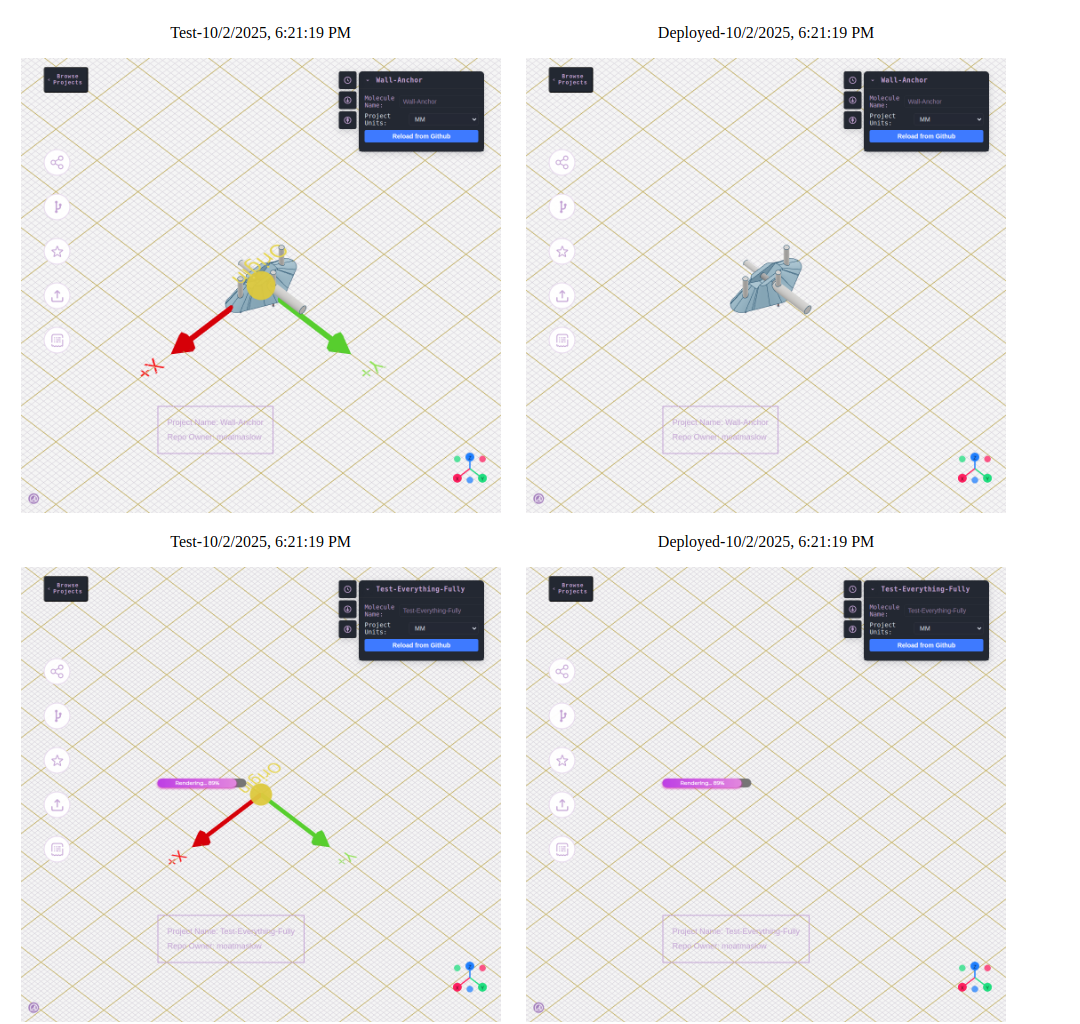
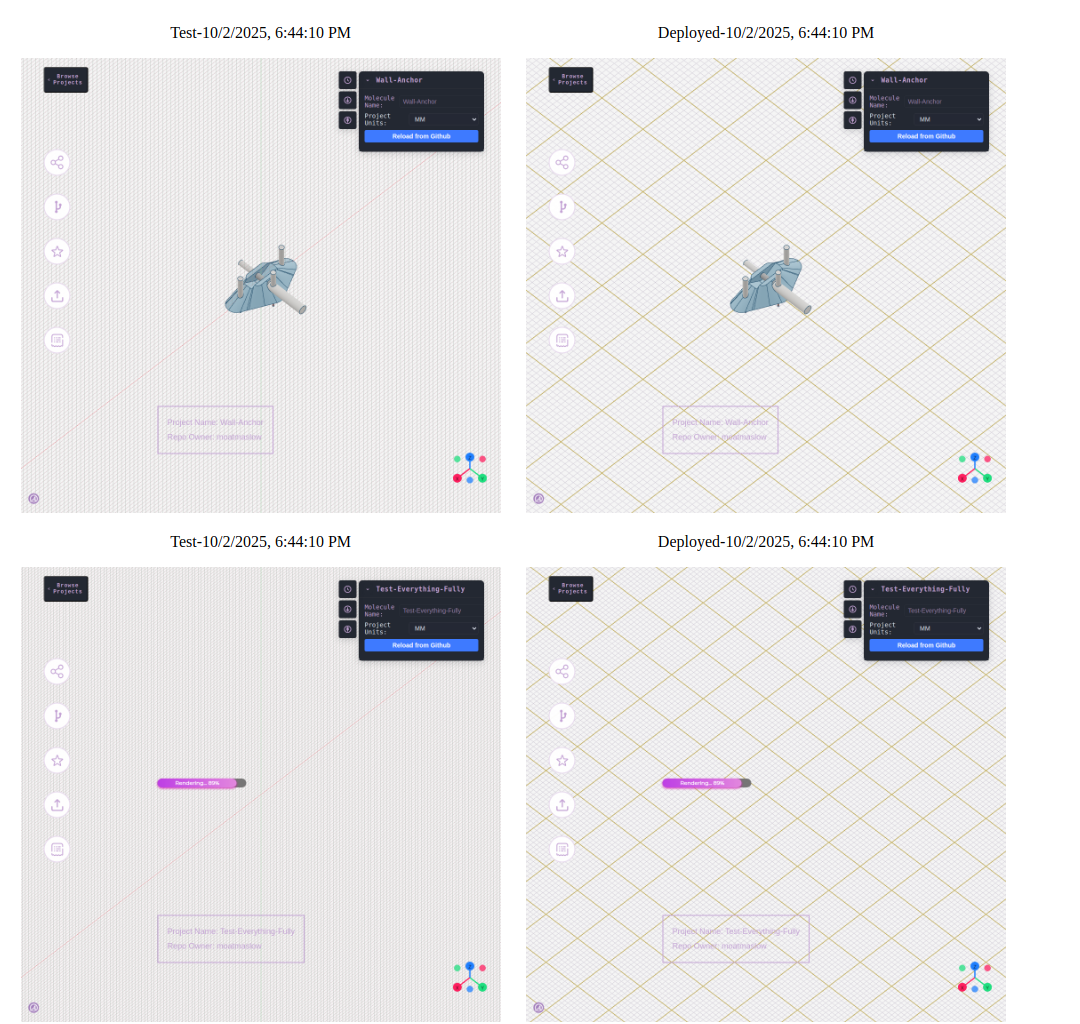
Replace 3D markers with color-coded grid lines

diff --git a/src/components/render/ColoredGrid.jsx b/src/components/render/ColoredGrid.jsx
@@ -1,0 +1,118 @@
+import React, { useMemo } from "react";
+import * as THREE from "three";
+
+/**
+ * ColoredGrid component
+ * A custom grid that uses different colors to indicate axis directions:
+ * - Lines parallel to X-axis are tinted red
+ * - Lines parallel to Y-axis are tinted green
+ * - The origin intersection is highlighted
+ * 
+ * This provides subtle visual cues about orientation without adding 3D elements.
+ */
+const ColoredGrid = ({ 
+  position = [0, 0, 0], 
+  cellSize = 100, 
+  gridSize = 10000, 
+  rotation = [0, 0, 0],
+  cellColor = "#726482",
+  sectionColor = "#BFA301",
+  sectionSize = 1000,
+  fadeDistance = 9000,
+  fadeFrom = 0
+}) => {
+  const gridGeometry = useMemo(() => {
+    const halfSize = gridSize / 2;
+    const divisions = gridSize / cellSize;
+    
+    // Create arrays to hold line vertices
+    const xAxisLines = []; // Lines parallel to X (running left-right)
+    const yAxisLines = []; // Lines parallel to Y (running front-back)
+    const originXLine = []; // X-axis line through origin
+    const originYLine = []; // Y-axis line through origin
+    
+    // Generate grid lines
+    for (let i = -divisions / 2; i <= divisions / 2; i++) {
+      const pos = i * cellSize;
+      const isSection = Math.abs(i % (sectionSize / cellSize)) === 0;
+      const isOrigin = i === 0;
+      
+      // Lines parallel to X-axis (running left-right, varying in Y)
+      if (isOrigin) {
+        originXLine.push(
+          new THREE.Vector3(-halfSize, pos, 0),
+          new THREE.Vector3(halfSize, pos, 0)
+        );
+      } else {
+        xAxisLines.push(
+          new THREE.Vector3(-halfSize, pos, 0),
+          new THREE.Vector3(halfSize, pos, 0)
+        );
+      }
+      
+      // Lines parallel to Y-axis (running front-back, varying in X)
+      if (isOrigin) {
+        originYLine.push(
+          new THREE.Vector3(pos, -halfSize, 0),
+          new THREE.Vector3(pos, halfSize, 0)
+        );
+      } else {
+        yAxisLines.push(
+          new THREE.Vector3(pos, -halfSize, 0),
+          new THREE.Vector3(pos, halfSize, 0)
+        );
+      }
+    }
+    
+    return { xAxisLines, yAxisLines, originXLine, originYLine };
+  }, [cellSize, gridSize, sectionSize]);
+
+  // Create line geometries
+  const createLineGeometry = (points) => {
+    const geometry = new THREE.BufferGeometry().setFromPoints(points);
+    return geometry;
+  };
+
+  // Color scheme: subtle tints to indicate direction
+  // X-axis lines (left-right) get a subtle red tint
+  const xColor = "#A37A82"; // Red-tinted purple (blend of cellColor with red)
+  // Y-axis lines (front-back) get a subtle green tint  
+  const yColor = "#72857A"; // Green-tinted purple (blend of cellColor with green)
+  // Origin lines are brighter and more saturated
+  const originXColor = "#D96A76"; // Brighter red for X-axis through origin
+  const originYColor = "#6FB080"; // Brighter green for Y-axis through origin
+
+  return (
+    <group position={position} rotation={rotation}>
+      {/* X-axis direction lines (subtle red tint) */}
+      {gridGeometry.xAxisLines.length > 0 && (
+        <lineSegments geometry={createLineGeometry(gridGeometry.xAxisLines)}>
+          <lineBasicMaterial color={xColor} opacity={0.4} transparent />
+        </lineSegments>
+      )}
+      
+      {/* Y-axis direction lines (subtle green tint) */}
+      {gridGeometry.yAxisLines.length > 0 && (
+        <lineSegments geometry={createLineGeometry(gridGeometry.yAxisLines)}>
+          <lineBasicMaterial color={yColor} opacity={0.4} transparent />
+        </lineSegments>
+      )}
+      
+      {/* Origin X-axis line (brighter red) */}
+      {gridGeometry.originXLine.length > 0 && (
+        <lineSegments geometry={createLineGeometry(gridGeometry.originXLine)}>
+          <lineBasicMaterial color={originXColor} opacity={0.8} transparent linewidth={2} />
+        </lineSegments>
+      )}
+      
+      {/* Origin Y-axis line (brighter green) */}
+      {gridGeometry.originYLine.length > 0 && (
+        <lineSegments geometry={createLineGeometry(gridGeometry.originYLine)}>
+          <lineBasicMaterial color={originYColor} opacity={0.8} transparent linewidth={2} />
+        </lineSegments>
+      )}
+    </group>
+  );
+};
+
+export default ColoredGrid;

diff --git a/src/components/render/ThreeContext.jsx b/src/components/render/ThreeContext.jsx
@@ -8,7 +8,7 @@ import {
 import * as THREE from "three";
 import Controls from "./ThreeControls.jsx";
 import BackgroundModel from "./BackgroundModel.jsx";
-import GridOriginMarker from "./GridOriginMarker.jsx";
+import ColoredGrid from "./ColoredGrid.jsx";
 import globalvariables from "../../js/globalvariables.js";
 import { useRendering, useAuth } from "../../contexts/index.js";
 
@@ -82,21 +82,17 @@ export default function ext({ children, cameraZoom, ...otherProps }) {
           position={[3000, 3000, 5000]}
         />
         {gridParam ? (
-          <>
-            <Grid
-              position={[0, 0, 0]}
-              cellSize={cellSection}
-              args={[10000, 10000]}
-              cellColor={"#726482"}
-              fadeFrom={0}
-              lineColor={"#BFA301"}
-              sectionColor={"#BFA301"}
-              fadeDistance={9000}
-              rotation={[Math.PI / 2, 0, 0]}
-              sectionSize={cellSection * 10}
-            />
-            <GridOriginMarker cellSection={cellSection} />
-          </>
+          <ColoredGrid
+            position={[0, 0, 0]}
+            cellSize={cellSection}
+            gridSize={10000}
+            cellColor={"#726482"}
+            fadeFrom={0}
+            sectionColor={"#BFA301"}
+            fadeDistance={9000}
+            rotation={[Math.PI / 2, 0, 0]}
+            sectionSize={cellSection * 10}
+          />
         ) : null}
         <Controls axesParam={axesParam} enableDamping={false}></Controls>
 
